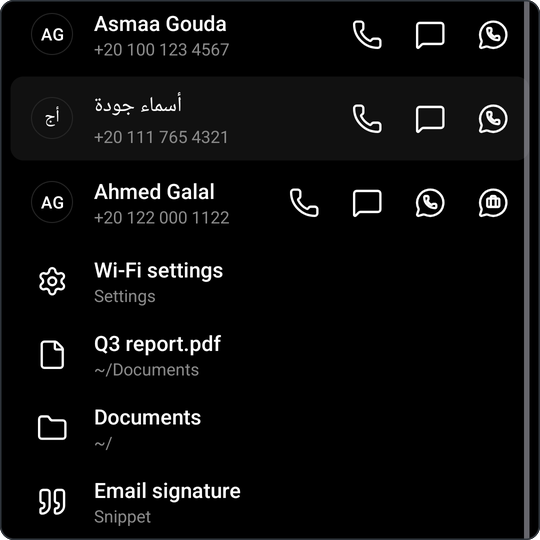
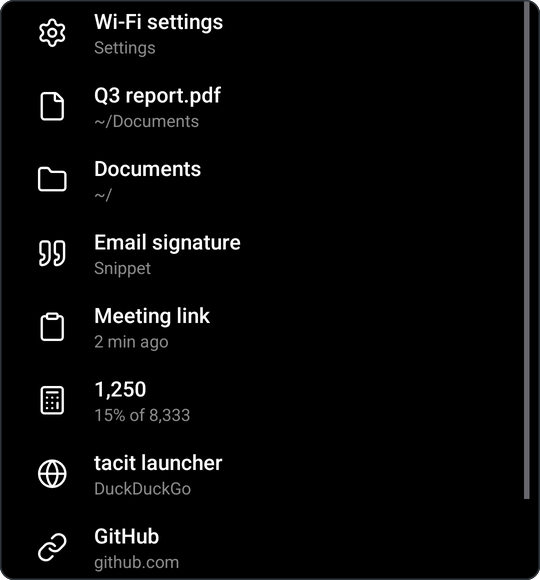
fix: show Tacit results without contact names in the screenshots
Claude-Session: https://claude.ai/code/session_01FVYdu3q891CtRgWCMi7zQJ

diff --git a/README.md b/README.md
@@ -12,8 +12,8 @@ Three tools with the most recorded checks. Each ledger lists what has been run a
 
 [Source](https://github.com/nickburser122/tacit) · [Known limits](https://github.com/nickburser122/tacit/blob/main/docs/limits.md) · [Decisions](https://github.com/nickburser122/tacit/blob/main/docs/decisions.md)
 
-![Tacit search results: two contacts, one in English and one in Arabic, then a settings screen, a file, a folder and a snippet](assets/tacit-light.png#gh-light-mode-only)
-![Tacit search results: two contacts, one in English and one in Arabic, then a settings screen, a file, a folder and a snippet](assets/tacit-dark.png#gh-dark-mode-only)
+![Tacit search results: a settings screen, a file, a folder, a snippet, a clipboard entry, a calculator result, a web search and a link](assets/tacit-light.png#gh-light-mode-only)
+![Tacit search results: a settings screen, a file, a folder, a snippet, a clipboard entry, a calculator result, a web search and a link](assets/tacit-dark.png#gh-dark-mode-only)
 
 Keyboard-first Android launcher: one search field opens apps, contacts, files, settings screens and quicklinks. Typos are matched by a budget that grows with word length, and Arabic letters are folded so Latin spellings find Arabic names. It asks for contacts, phone-call and all-files permissions. No INTERNET permission is declared.
 
